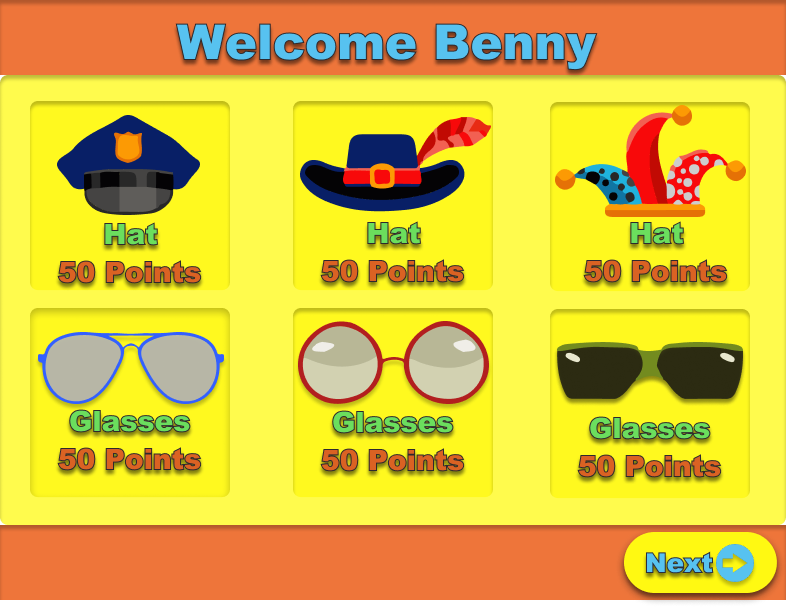
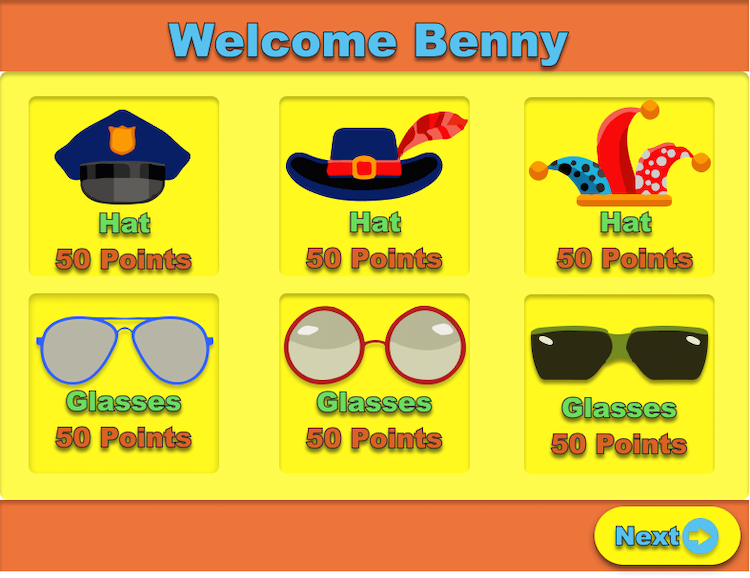
AHHHH! the racoon is in the center of the thing!!!!!!!

diff --git a/src/components/Store.js b/src/components/Store.js
@@ -1,4 +1,6 @@
 import React, { Component } from "react";
+import NavBar from "../components/NavBar";
+import Footer from "../components/Footer";
 // import APIManager from "../../modules/APIManager";
 import "../../src/css/Store.css";
 
@@ -6,13 +8,24 @@ class Store extends Component {
 	render() {
 		return (
 			<>
-				<div className="store">
-					<img
-						src={require("../images/AccessorriesStore.png")}
-						className="store"
-						alt="store"
-					/>
+			<NavBar />
+				<div className="Store">
+					<div className="Avatar">
+						<img
+							src={require("../images/raccoon.png")}
+							className="racoon"
+							alt="raccoon"
+						/>
+					</div>
+					<div className="Accessories">
+						<img
+							src={require("../images/AccessorriesStore.png")}
+							className="store"
+							alt="store"
+						/>
+					</div>
 				</div>
+				<Footer />
 			</>
 		);
 	}

diff --git a/src/css/Show.css b/src/css/Show.css
@@ -1,7 +1,24 @@
-body{
-  background-image: url(../images/Background1.png);
-  background-repeat: no-repeat;
+/* BODY AND BACKGROUNDS */
+.showContainer{
+
+  background-image: url(../images/redcarpet.jpeg);
   background-size: cover;
-  background-position: bottom; 
+  background-repeat: no-repeat;
+  height:100%;
   font-family: 'Sigmar One', 'cursive';
+}
+/* .showContainer{
+    display: flex;
+    flex-direction: row;
+    justify-content: center;
+} */
+.ShowOff{
+    height: 100%;
+}
+.ShowOff img{
+    position: absolute;
+    top: 50%;
+    left: 52%;
+    margin-right: -50%;
+    transform: translate(-50%, -50%) 
 }

diff --git a/src/App.js b/src/App.js
@@ -5,7 +5,7 @@
 //<Dashboard.js> renders the <NavBar> and <ApplicationViews> 
 import React, { Component } from 'react'
 import ApplicationViews from "../src/ApplicationViews";
-import "../src/css/Dashboard.css";
+import "../src/css/App.css";
 // import Dashboard from './components/dashboard/Dashboard'
 
 //Components are the building blocks of any React app and a typical React app will have many of these. Simply put, a component is a JavaScript class or function that optionally accepts inputs i.e. properties(props) and returns a React element that describes how a section of the UI (User Interface) should appear.

diff --git a/src/components/Sidekick.js b/src/components/Sidekick.js
@@ -1,15 +1,18 @@
 import React, { Component } from "react";
 import { Link } from "react-router-dom";
+import Footer from "../components/Footer"
+import NavBar from "../components/NavBar";
 import "../../src/css/Sidekick.css";
 
 class Sidekick extends Component {
 	render() {
 		return (
 			<>
+			<NavBar />
 				<div className="whereTo">
 					<img
 						src={require("../images/whereTo.png")}
-						className="racoon"
+						className=""
 						alt="raccoon"
 					/>
 				</div>
@@ -31,6 +34,7 @@ class Sidekick extends Component {
 						/>
 					</Link>
 				</div>
+				<Footer />
 			</>
 		);
 	}

diff --git a/src/components/ShowOff.js b/src/components/ShowOff.js
@@ -1,17 +1,22 @@
 import React, { Component } from "react";
+import Footer from "../components/Footer"
+import NavBar from "../components/NavBar"
 import "../../src/css/Show.css";
 
 class ShowOff extends Component {
 	render() {
 		return (
 			<>
+            <NavBar />
+            <div className="showContainer">
 				<div className="ShowOff">
 					<img
 						src={require("../images/raccoon.png")}
-						className="collection"
 						alt="Stuff"
 					/>
 				</div>
+                </div>
+			<Footer />
 			</>
 		);
 	}

diff --git a/src/css/Dashboard.css b/src/css/Dashboard.css
@@ -1,15 +1,14 @@
 /* BODY AND BACKGROUNDS */
-body{
-  width: 900px;
-  height: 400px;
+body.Store{
   background-image: url(../images/Background1.png);
-  background-repeat: no-repeat;
   background-size: cover;
   font-family: 'Sigmar One', 'cursive';
 }
 .containerContainer{
     display: flex;
-    align-items: center;
+    flex-direction: row;
+    flex-wrap: nowrap;
+    /* align-items: center; */
 }
 .avatarContainer{
   display: flex;

diff --git a/src/css/Store.css b/src/css/Store.css
@@ -1,13 +1,14 @@
 /* BODY AND BACKGROUNDS */
-body{
-  width: 900px;
-  height: 400px;
+body.Store{
+
   background-image: url(../images/Background1.png);
   background-repeat: no-repeat;
   background-size: cover;
   font-family: 'Sigmar One', 'cursive';
 }
-.store{
-    display: flex;
-    justify-content: flex-end;
+.Store{
+    display: flex;    
+    flex-wrap: nowrap;
+    justify-content: center;
+    flex-direction: row;
 }

diff --git a/src/components/LoginForm.js b/src/components/LoginForm.js
@@ -18,7 +18,7 @@ class LoginForm extends Component {
 			<form onSubmit={this.handleSignIn.bind(this)}>
 				<input type="text" ref="username" placeholder="Username" />
 				<input type="password" ref="password" placeholder="Password" />
-				<Link to="/Dashboard">
+				<Link to="/Store">
 					<button>Login</button>
 				</Link>
 			</form>

diff --git a/src/css/Sidekick.css b/src/css/Sidekick.css
@@ -1,7 +1,5 @@
 /* BODY AND BACKGROUNDS */
 body{
-  width: 900px;
-  height: 400px;
   background-image: url(../images/Background1.png);
   background-repeat: no-repeat;
   background-size: cover;
@@ -15,6 +13,7 @@ body{
     width: auto; 
 }
 .whereTo{
+  padding-top: 6.5em;
     display: flex;
     justify-content: center;
 }

diff --git a/src/css/Login.css b/src/css/Login.css
@@ -1,10 +1,6 @@
 /* BODY AND BACKGROUNDS */
 body{
-    font-size: 16px;
-  background-image: url(../images/Background1.png);
-  background-repeat: no-repeat;
-  background-size: cover;
-  background-position: bottom; 
+  font-size: 16px;
   font-family: 'Sigmar One', 'cursive';
 }
 

diff --git a/src/components/NavBar.js b/src/components/NavBar.js
@@ -18,7 +18,7 @@ class NavBar extends Component {
 						<Link
 							className="link"
 							activeClass="active"
-							to="/Dashboard"
+							to="/Store"
 						>
 							Store
 						</Link>

diff --git a/src/index.css b/src/index.css
@@ -1,3 +1,7 @@
+html, body, #root{
+  height: 100%;
+}
+
 body {
   margin: 0;
   font-family: -apple-system, BlinkMacSystemFont, 'Sigmar One', cursive, 'Segoe UI', 'Roboto', 'Oxygen',
